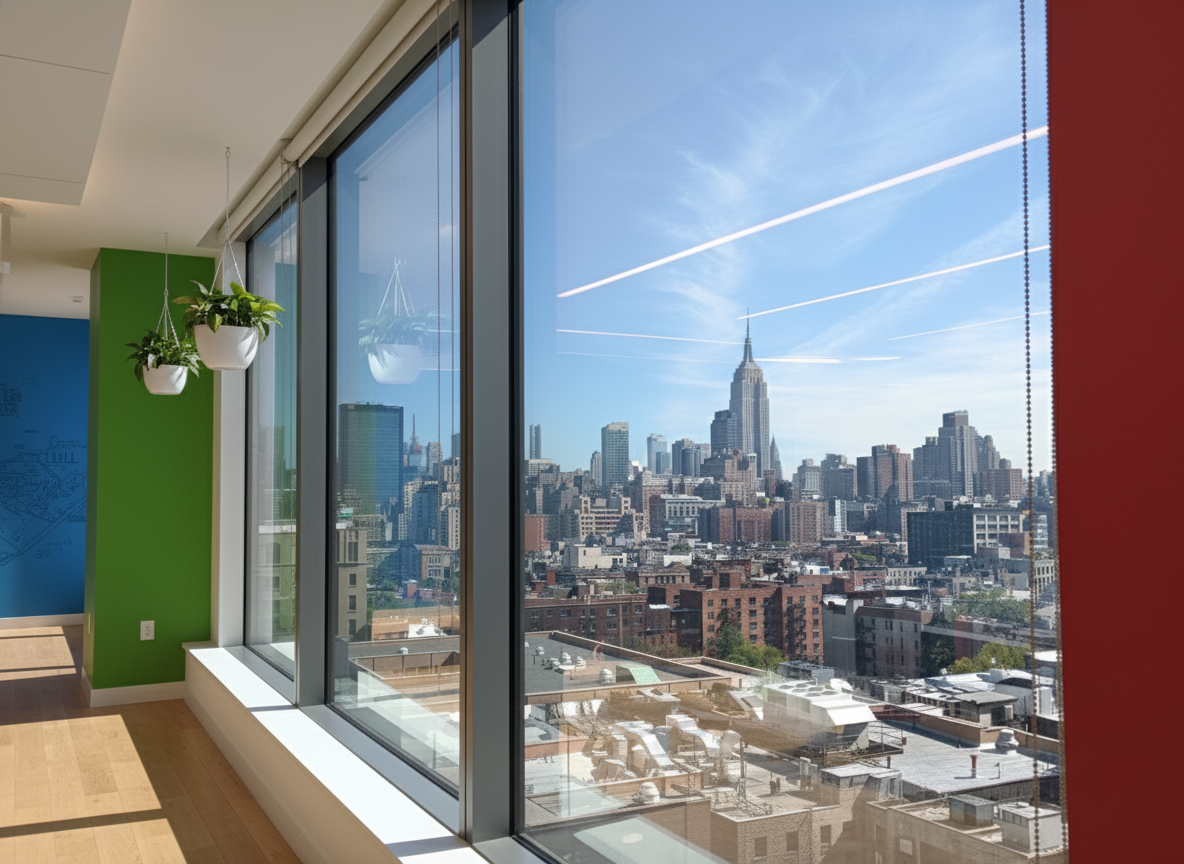
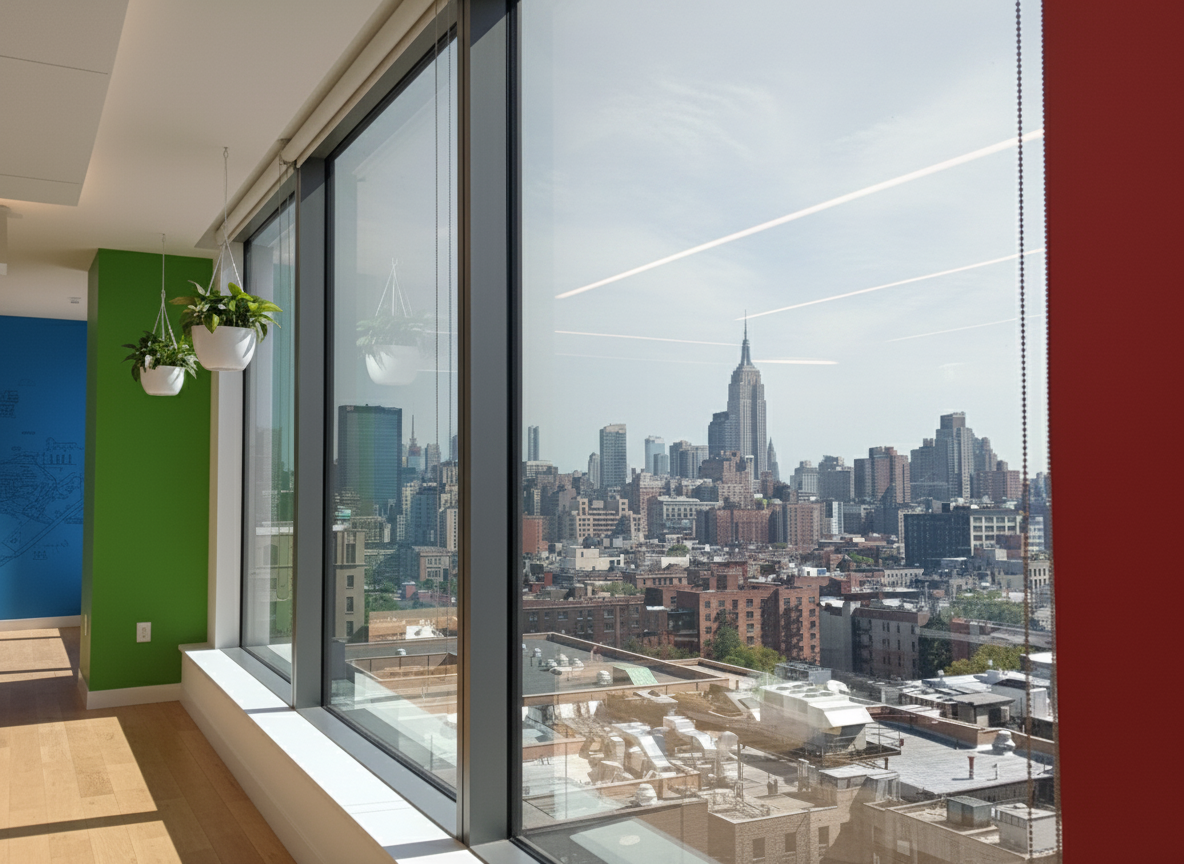
Update current virtual office image

diff --git a/index.html b/index.html
@@ -34,6 +34,6 @@
 </head>
 <body>
   <img src="./virtual-office-current.png" alt="Current virtual office weather image">
-  <div class="stamp">Last updated: 2026-04-16 09:52 PDT</div>
+  <div class="stamp">Last updated: 2026-04-16 13:29 PDT</div>
 </body>
 </html>
